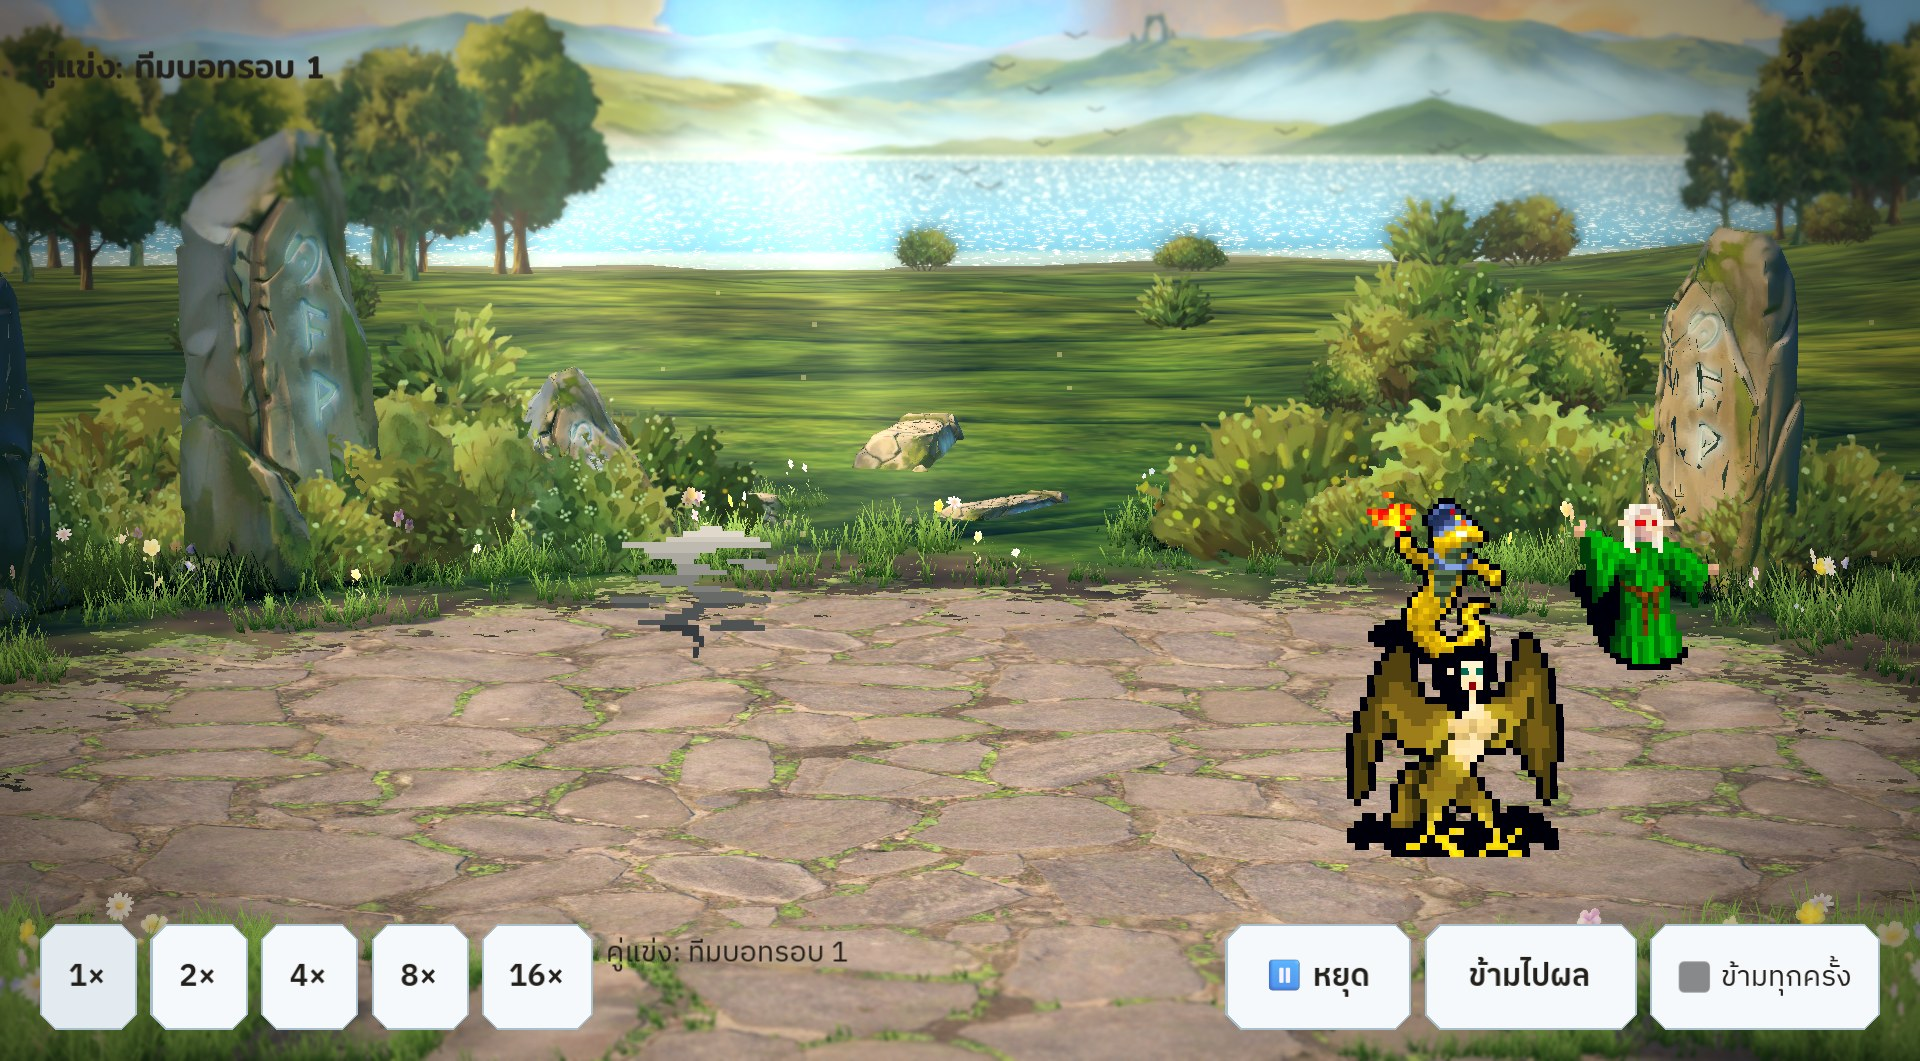
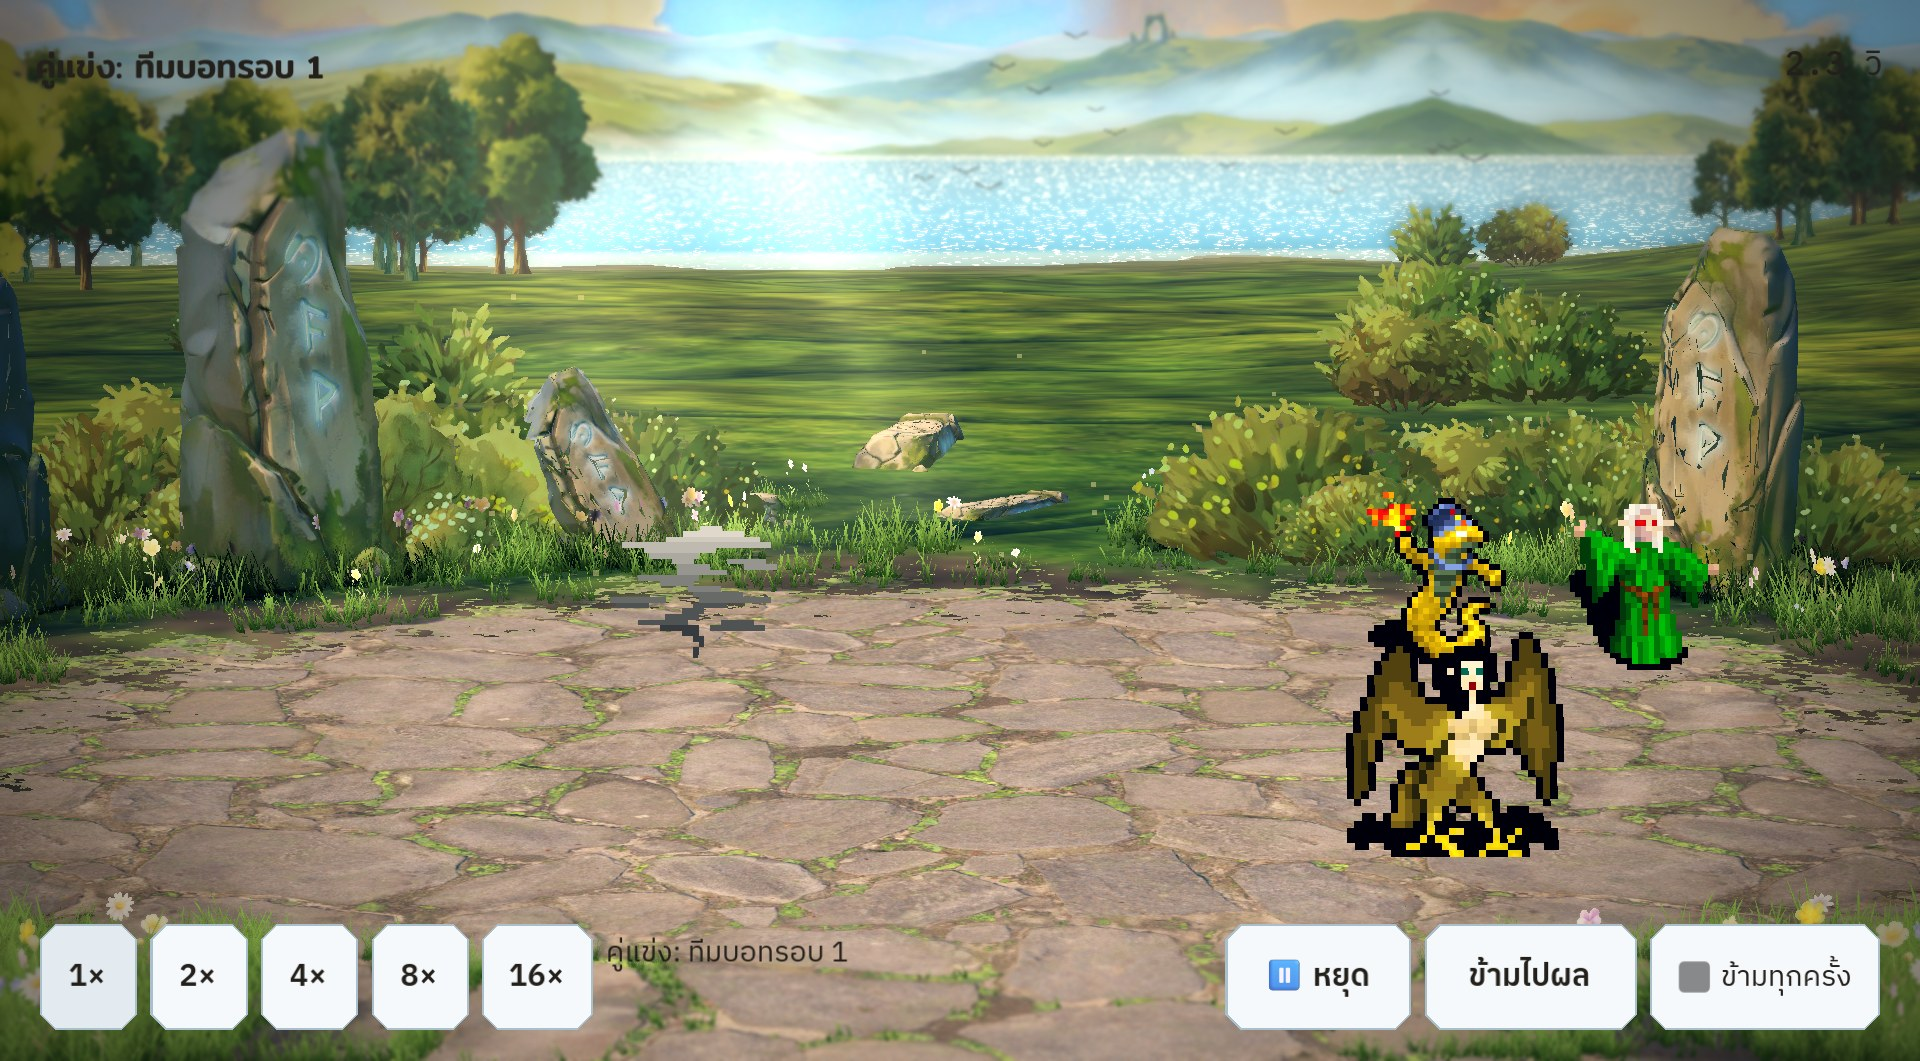
set 238 round 4: back trees smaller (tfar), trees + bushes sway in the wind (tsway); r38 re-baked, stills

diff --git a/claude/plan-set238.md b/claude/plan-set238.md
@@ -10,7 +10,7 @@ Security (HARD RULE 9): only the owner's own AI picture, plus art already in the
 3. [x] `_s238_trees` (`s238=1`): polygons measured in the picture — T2 left grove, T1 right lakeside grove, right forest from x 43 (owner green line), MM gap r 20, far trees only x > 60, groves 0.68× height + 2.8 m spacing, O1 clump of 7 bushes at (10.4,−31.5), 12 meadow shrubs.
 4. [x] `_s238_cards` (`mlpic=1`, replaces mlayers): S3/S2/S1 cut from the picture (`preview-set230/cards238.py.txt`: editor UI painted out, silhouettes snapped to the owner's lines, mirrored side pads), each facing the game camera at D 316/308/300 (z −290…−274), picture row 212 → water line, scale `mls=0.85`, `mlcon=1.18`, `mltint`.
 5. [x] Baked → `<g>/art/arena_r38/arena_r38.tscn` (891 nodes, 13 MB, self-contained, 3 S238Layer nodes). View check OK. Stills: claude/preview-set238/. Args: preview-set230/r38_args.txt.
-6. [~] Owner round 1 (Godot, 15 Nov): crossed out the right land behind the lake → `hrc=1` (both terrain copies: right hills fade out at z −185…−215, water there). Fixed in passing: trees were placed before the terrain options were read (lake shift/ridge/hrc now applied to trees too). Re-baked r38 (874 nodes), view check OK. Round 2 (owner, Godot close-up): the layers carried the picture's own foreground (right-shore trees, rock, near hill) and a white smear over the spire → painted over with mist, spire tips under the old toolbar cut, right end = mirrored clean hill (cards238.py). Re-baked, view check OK. Round 3 (owner A1/B1): backdrop = the owner's earlier `far_hills_v3.png` (art/library/pictures/s217) — sharper painting — cut into 3 layers on its ridges (`fh238.py.txt`), side tiles mirrored with the arch cut out so it shows once; `mlset=fh_ mlpad=2048 mlu0=1024 mlv0=375 mls=0.47 mldy=22`. The picture cut (S1–S3 from the overhead picture) stays as the default when `mlset` is not given. Re-baked, view check OK. Owner looks at the stills → tweaks (sample loop) or OK.
+6. [~] Owner round 1 (Godot, 15 Nov): crossed out the right land behind the lake → `hrc=1` (both terrain copies: right hills fade out at z −185…−215, water there). Fixed in passing: trees were placed before the terrain options were read (lake shift/ridge/hrc now applied to trees too). Re-baked r38 (874 nodes), view check OK. Round 2 (owner, Godot close-up): the layers carried the picture's own foreground (right-shore trees, rock, near hill) and a white smear over the spire → painted over with mist, spire tips under the old toolbar cut, right end = mirrored clean hill (cards238.py). Re-baked, view check OK. Round 3 (owner A1/B1): backdrop = the owner's earlier `far_hills_v3.png` (art/library/pictures/s217) — sharper painting — cut into 3 layers on its ridges (`fh238.py.txt`), side tiles mirrored with the arch cut out so it shows once; `mlset=fh_ mlpad=2048 mlu0=1024 mlv0=375 mls=0.47 mldy=22`. The picture cut (S1–S3 from the overhead picture) stays as the default when `mlset` is not given. Re-baked, view check OK. Round 4 (owner): back trees/bushes smaller so they read far (`tfar=0.6`: 1.0 near the plaza → 0.6 from z −170) · trees and bushes sway in the wind like the grass (`tsway=0.02`: own card shader SWAY238, billboard Y, base fixed, bushes 1.8× amp; checked: 5–8× more motion than tsway=0). Re-baked, view check OK. Owner looks at the stills → tweaks (sample loop) or OK.
 7. [ ] rule-change art-style §8: r38 = the arena (was plan-set237 step 6) → plan-set236 step 4 ports `arena_r38`.
 
 ## Known gaps
